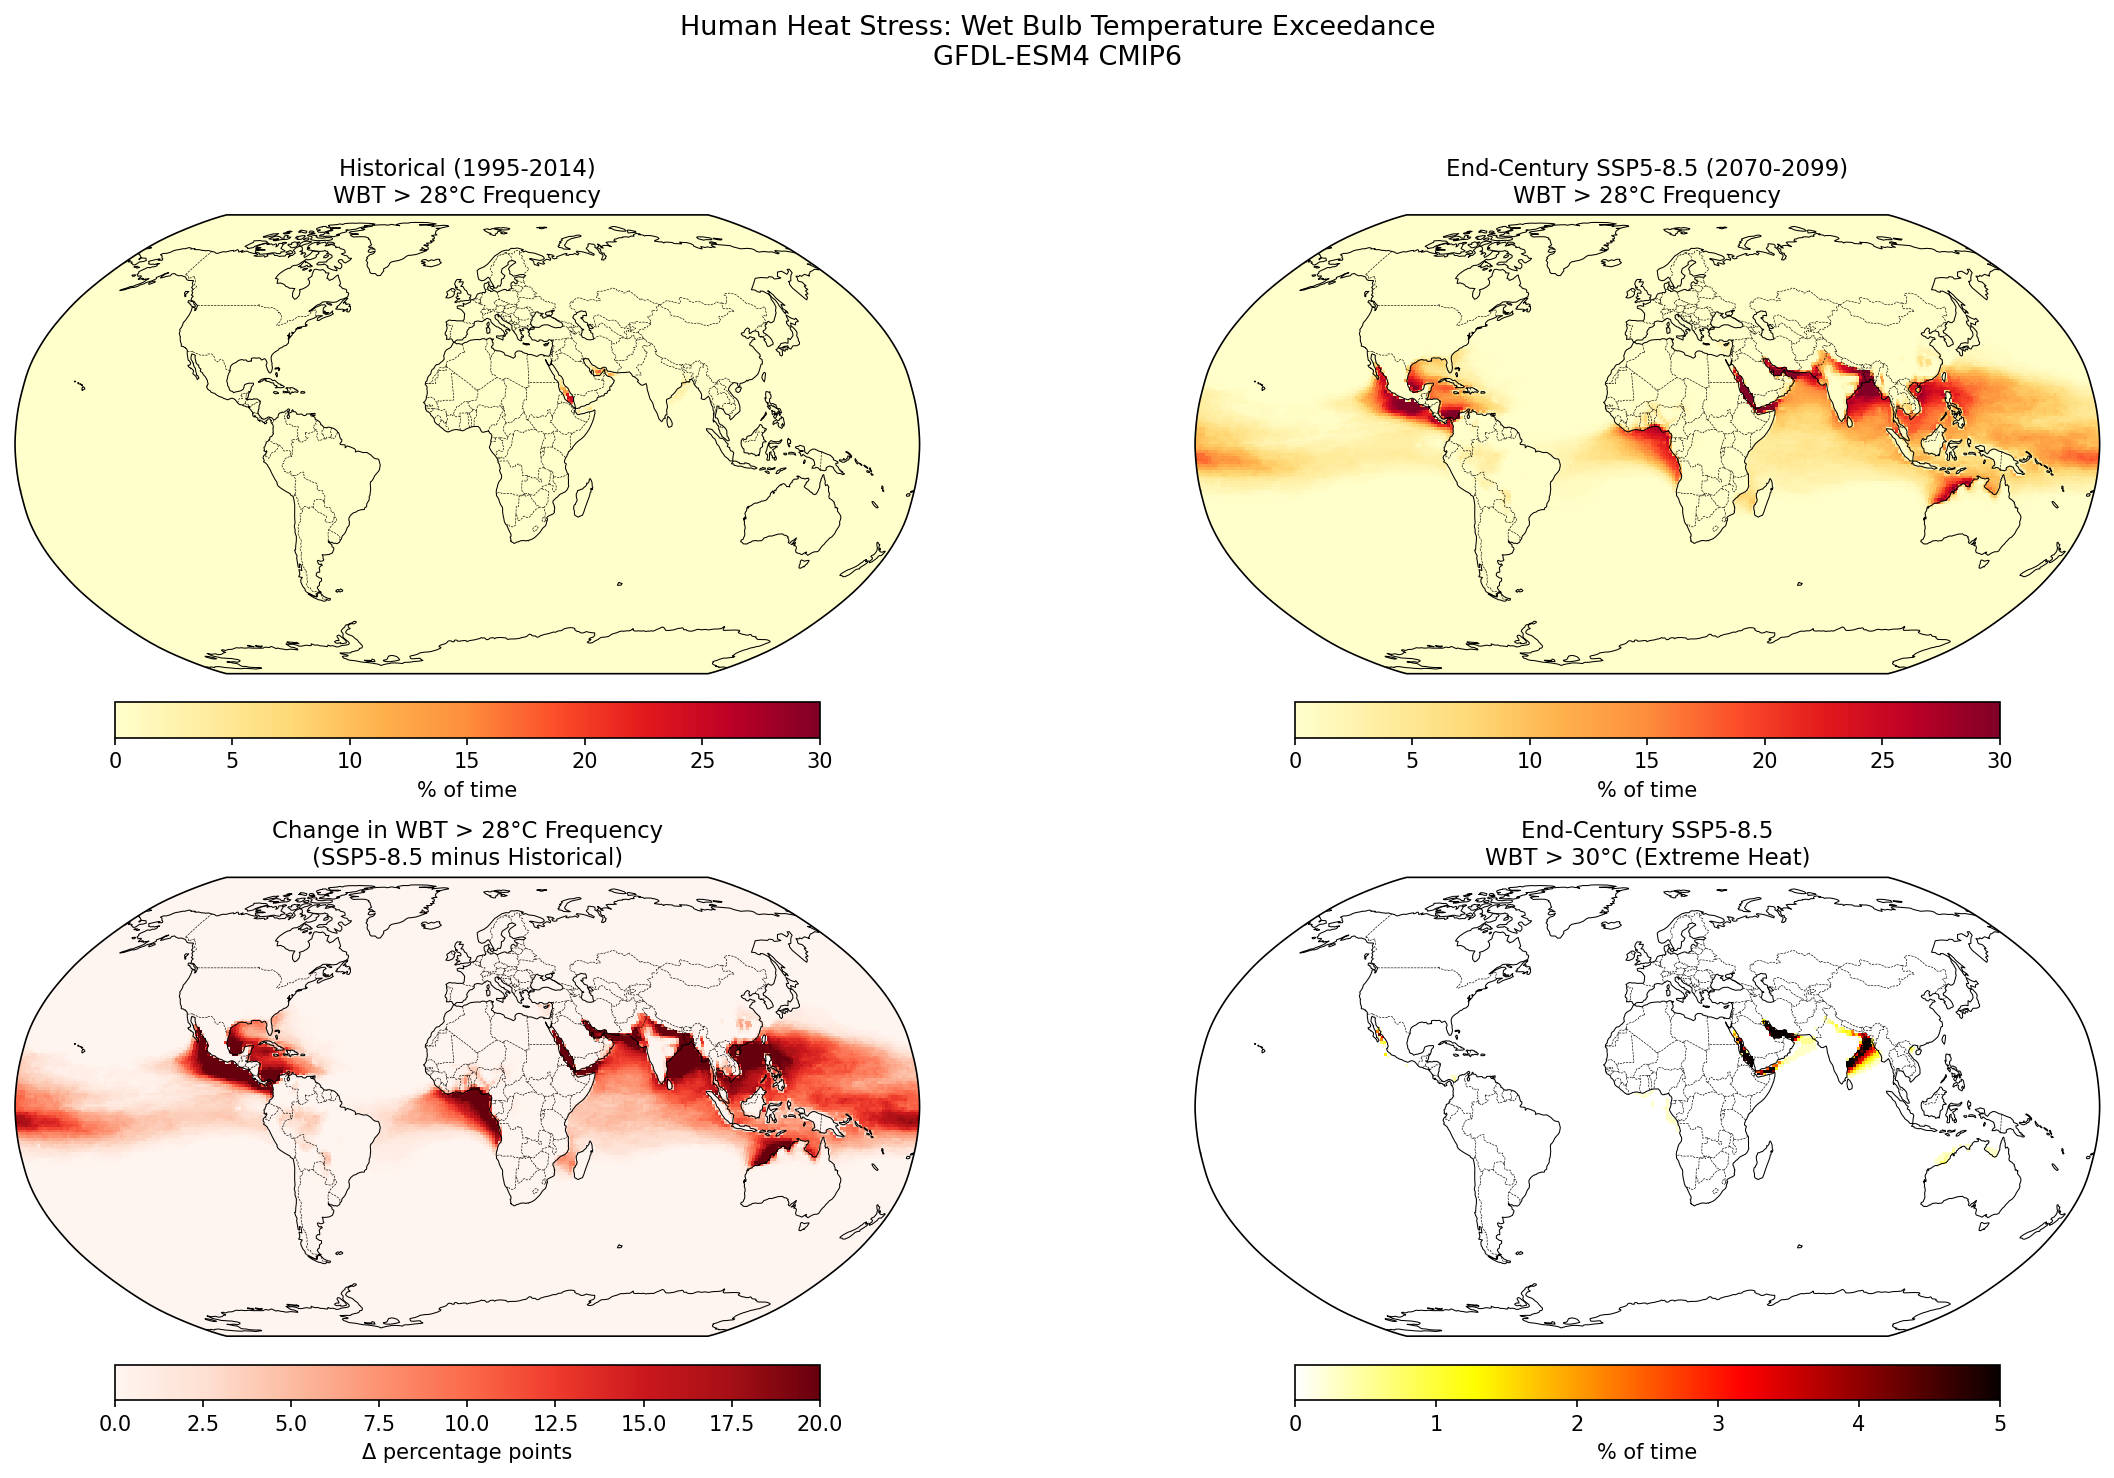
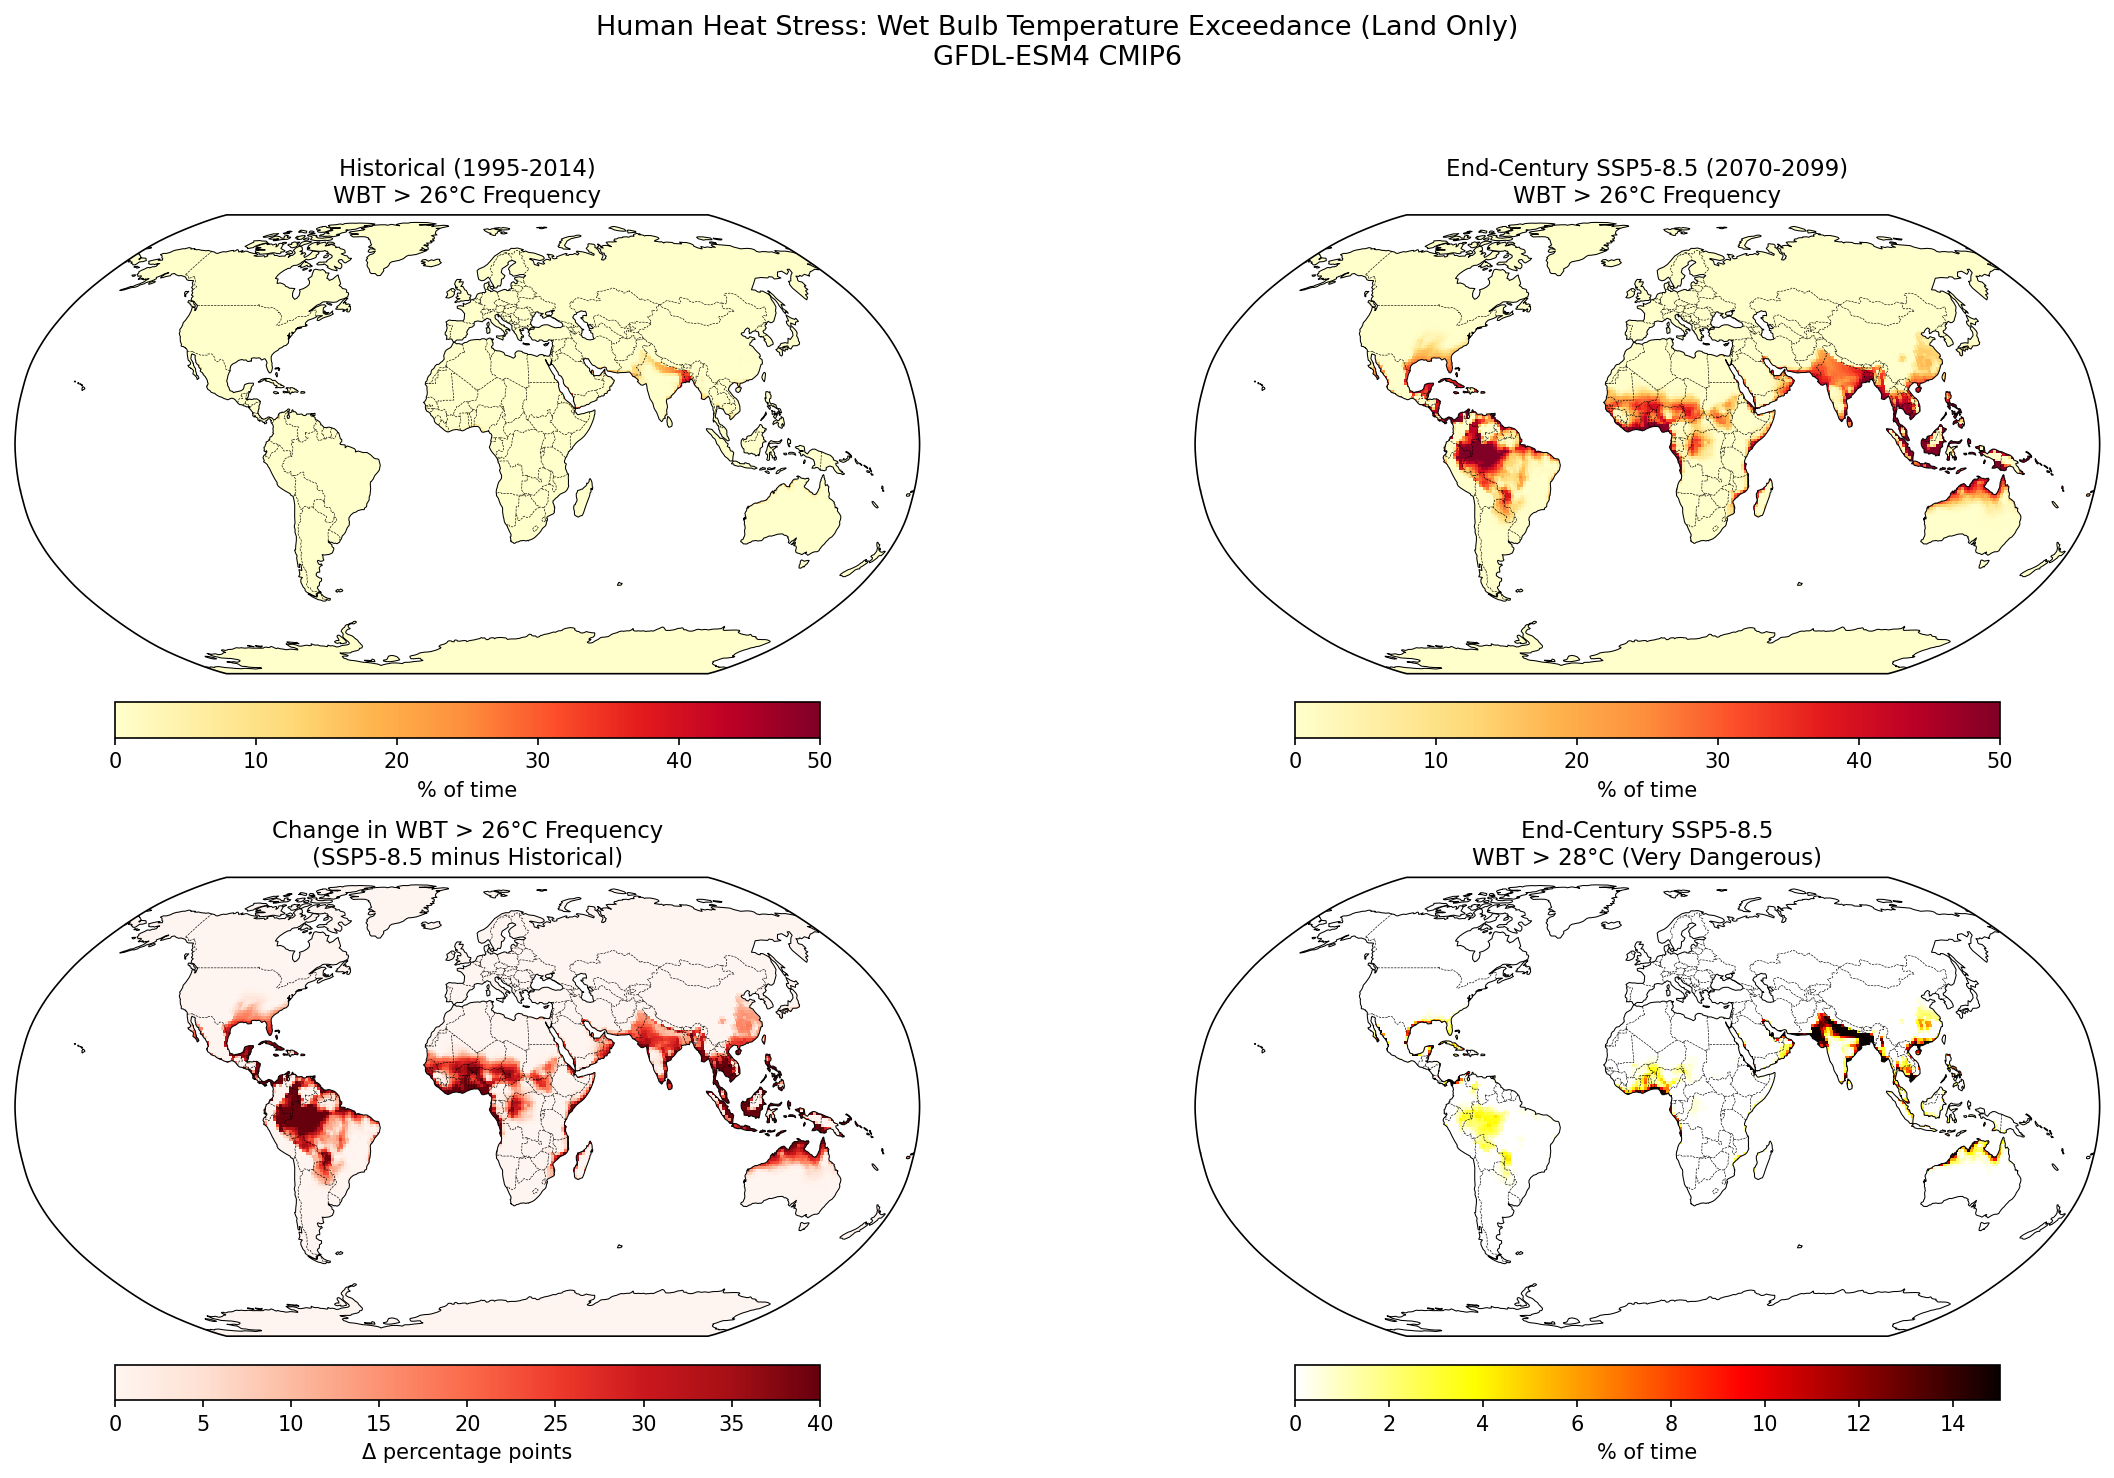
Fix heat stress maps to show land only (mask oceans)
Added ocean mask overlay to hide oceanic WBT data, since we only
care about human heat stress on land. Also switched main panels
to use 26°C threshold for better visualization of land patterns.

diff --git a/examples/run_heat_stress_analysis.py b/examples/run_heat_stress_analysis.py
@@ -387,78 +387,83 @@ def plot_heat_stress_results(results):
         print("Missing required scenarios for plotting")
         return
 
-    # Figure 1: Global maps of WBT>32°C change
+    # Figure 1: Global maps - use DANGEROUS threshold (26°C) for better land signal
     fig = plt.figure(figsize=(16, 10))
 
-    # Historical
+    # Historical - dangerous threshold
     ax1 = fig.add_subplot(2, 2, 1, projection=ccrs.Robinson())
     ax1.set_global()
 
-    hist_vd = convert_lon_to_180(results["historical"]["very_dangerous"])
+    hist_d = convert_lon_to_180(results["historical"]["dangerous"])
 
     im1 = ax1.pcolormesh(
-        hist_vd.lon, hist_vd.lat, hist_vd,
-        cmap="YlOrRd", vmin=0, vmax=30,
+        hist_d.lon, hist_d.lat, hist_d,
+        cmap="YlOrRd", vmin=0, vmax=50,
         transform=ccrs.PlateCarree(),
         shading="auto"
     )
-    ax1.add_feature(cfeature.COASTLINE, linewidth=0.5)
-    ax1.add_feature(cfeature.BORDERS, linewidth=0.3, linestyle="--")
-    ax1.set_title(f"Historical (1995-2014)\nWBT > {WBT_VERY_DANGEROUS}°C Frequency", fontsize=11)
+    # Add ocean mask ON TOP to hide ocean data
+    ax1.add_feature(cfeature.OCEAN, facecolor='white', zorder=2)
+    ax1.add_feature(cfeature.COASTLINE, linewidth=0.5, zorder=3)
+    ax1.add_feature(cfeature.BORDERS, linewidth=0.3, linestyle="--", zorder=3)
+    ax1.set_title(f"Historical (1995-2014)\nWBT > {WBT_DANGEROUS}°C Frequency", fontsize=11)
     plt.colorbar(im1, ax=ax1, orientation="horizontal", pad=0.05, shrink=0.6, label="% of time")
 
-    # Future SSP5-8.5
+    # Future SSP5-8.5 - dangerous threshold
     ax2 = fig.add_subplot(2, 2, 2, projection=ccrs.Robinson())
     ax2.set_global()
 
-    future_vd = convert_lon_to_180(results["end_century_ssp585"]["very_dangerous"])
+    future_d = convert_lon_to_180(results["end_century_ssp585"]["dangerous"])
 
     im2 = ax2.pcolormesh(
-        future_vd.lon, future_vd.lat, future_vd,
-        cmap="YlOrRd", vmin=0, vmax=30,
+        future_d.lon, future_d.lat, future_d,
+        cmap="YlOrRd", vmin=0, vmax=50,
         transform=ccrs.PlateCarree(),
         shading="auto"
     )
-    ax2.add_feature(cfeature.COASTLINE, linewidth=0.5)
-    ax2.add_feature(cfeature.BORDERS, linewidth=0.3, linestyle="--")
-    ax2.set_title(f"End-Century SSP5-8.5 (2070-2099)\nWBT > {WBT_VERY_DANGEROUS}°C Frequency", fontsize=11)
+    ax2.add_feature(cfeature.OCEAN, facecolor='white', zorder=2)
+    ax2.add_feature(cfeature.COASTLINE, linewidth=0.5, zorder=3)
+    ax2.add_feature(cfeature.BORDERS, linewidth=0.3, linestyle="--", zorder=3)
+    ax2.set_title(f"End-Century SSP5-8.5 (2070-2099)\nWBT > {WBT_DANGEROUS}°C Frequency", fontsize=11)
     plt.colorbar(im2, ax=ax2, orientation="horizontal", pad=0.05, shrink=0.6, label="% of time")
 
-    # Change map
+    # Change map - dangerous threshold
     ax3 = fig.add_subplot(2, 2, 3, projection=ccrs.Robinson())
     ax3.set_global()
 
-    change_vd = future_vd - hist_vd
+    change_d = future_d - hist_d
 
     im3 = ax3.pcolormesh(
-        change_vd.lon, change_vd.lat, change_vd,
-        cmap="Reds", vmin=0, vmax=20,
+        change_d.lon, change_d.lat, change_d,
+        cmap="Reds", vmin=0, vmax=40,
         transform=ccrs.PlateCarree(),
         shading="auto"
     )
-    ax3.add_feature(cfeature.COASTLINE, linewidth=0.5)
-    ax3.add_feature(cfeature.BORDERS, linewidth=0.3, linestyle="--")
-    ax3.set_title(f"Change in WBT > {WBT_VERY_DANGEROUS}°C Frequency\n(SSP5-8.5 minus Historical)", fontsize=11)
+    ax3.add_feature(cfeature.OCEAN, facecolor='white', zorder=2)
+    ax3.add_feature(cfeature.COASTLINE, linewidth=0.5, zorder=3)
+    ax3.add_feature(cfeature.BORDERS, linewidth=0.3, linestyle="--", zorder=3)
+    ax3.set_title(f"Change in WBT > {WBT_DANGEROUS}°C Frequency\n(SSP5-8.5 minus Historical)", fontsize=11)
     plt.colorbar(im3, ax=ax3, orientation="horizontal", pad=0.05, shrink=0.6, label="Δ percentage points")
 
-    # Extreme threshold map (future)
+    # Very dangerous threshold map (future) - 28°C
     ax4 = fig.add_subplot(2, 2, 4, projection=ccrs.Robinson())
     ax4.set_global()
 
-    future_extreme = convert_lon_to_180(results["end_century_ssp585"]["extreme"])
+    future_vd = convert_lon_to_180(results["end_century_ssp585"]["very_dangerous"])
 
     im4 = ax4.pcolormesh(
-        future_extreme.lon, future_extreme.lat, future_extreme,
-        cmap="hot_r", vmin=0, vmax=5,
+        future_vd.lon, future_vd.lat, future_vd,
+        cmap="hot_r", vmin=0, vmax=15,
         transform=ccrs.PlateCarree(),
         shading="auto"
     )
-    ax4.add_feature(cfeature.COASTLINE, linewidth=0.5)
-    ax4.add_feature(cfeature.BORDERS, linewidth=0.3, linestyle="--")
-    ax4.set_title(f"End-Century SSP5-8.5\nWBT > {WBT_EXTREME}°C (Extreme Heat)", fontsize=11)
+    ax4.add_feature(cfeature.OCEAN, facecolor='white', zorder=2)
+    ax4.add_feature(cfeature.COASTLINE, linewidth=0.5, zorder=3)
+    ax4.add_feature(cfeature.BORDERS, linewidth=0.3, linestyle="--", zorder=3)
+    ax4.set_title(f"End-Century SSP5-8.5\nWBT > {WBT_VERY_DANGEROUS}°C (Very Dangerous)", fontsize=11)
     plt.colorbar(im4, ax=ax4, orientation="horizontal", pad=0.05, shrink=0.6, label="% of time")
 
-    plt.suptitle("Human Heat Stress: Wet Bulb Temperature Exceedance\nGFDL-ESM4 CMIP6", fontsize=13, y=0.98)
+    plt.suptitle("Human Heat Stress: Wet Bulb Temperature Exceedance (Land Only)\nGFDL-ESM4 CMIP6", fontsize=13, y=0.98)
     plt.tight_layout(rect=[0, 0, 1, 0.95])
 
     output_path = ARTIFACTS_DIR / "heat_stress_global.png"
